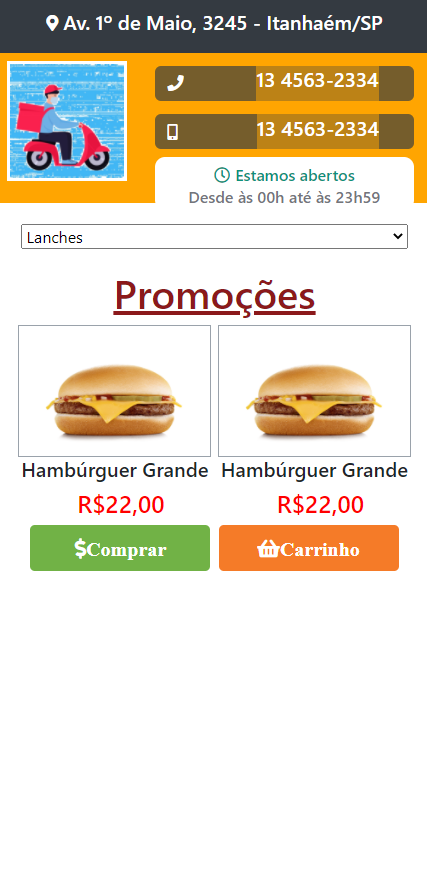
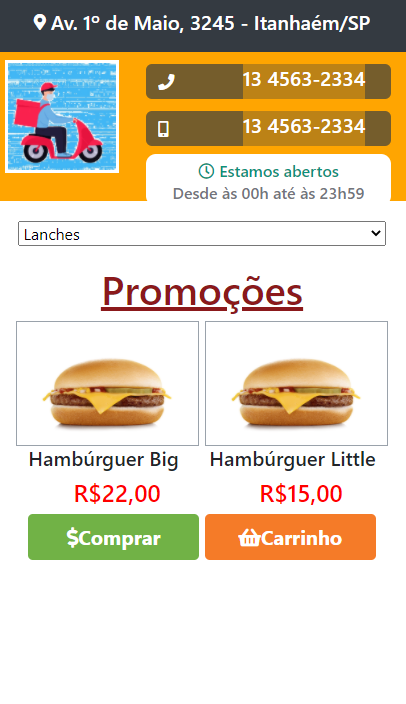
App Mobile

diff --git a/index.html b/index.html
@@ -126,14 +126,14 @@
                         <!-- criar linha na tabela / organização -->
                         <tr>
                             <th scope="row">1</th>
-                            <td>Hambúrguer Grande</td>
+                            <td>Hambúrguer Big</td>
                             <td>R$ 22,00</td>
                             <td><input id="1" type="number" data-preco="22" data-id="1" value="0" class="sizebox" onchange="calcularPreco($(this))"></td>
                             <td id="sub1" data-sub="0">R$ 0,00</td>
                         </tr>
                         <tr>
                             <th scope="row">2</th>
-                            <td>Hambúrguer Mini</td>
+                            <td>Hambúrguer Little</td>
                             <td>R$ 15,00</td>
                             <td><input id="2" type="number" data-preco="15" data-id="2" value="0" class="sizebox" onchange="calcularPreco($(this))"></td>
                             <td id="sub2" data-sub="0">R$ 0,00</td>

diff --git a/README.md b/README.md
@@ -3,3 +3,5 @@
 ### Reviewing some tags and info's from the last year...
 
 ![](img/Done.png)
+![](img/modal.png)
+![](img/modal.working.png)
